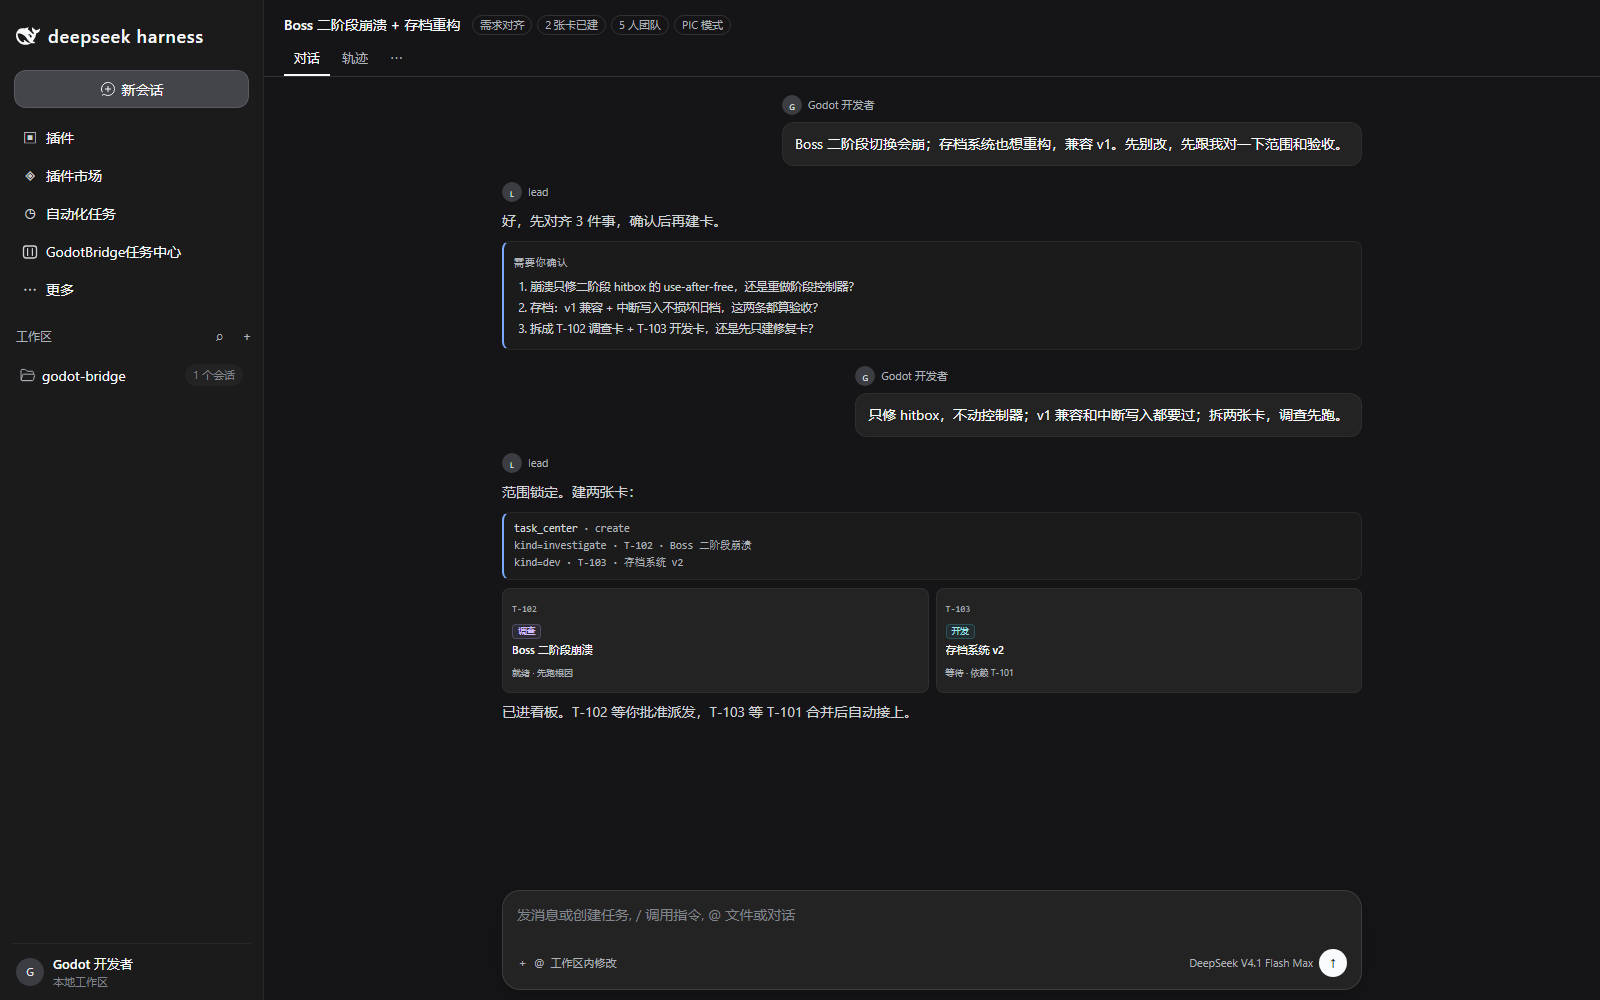
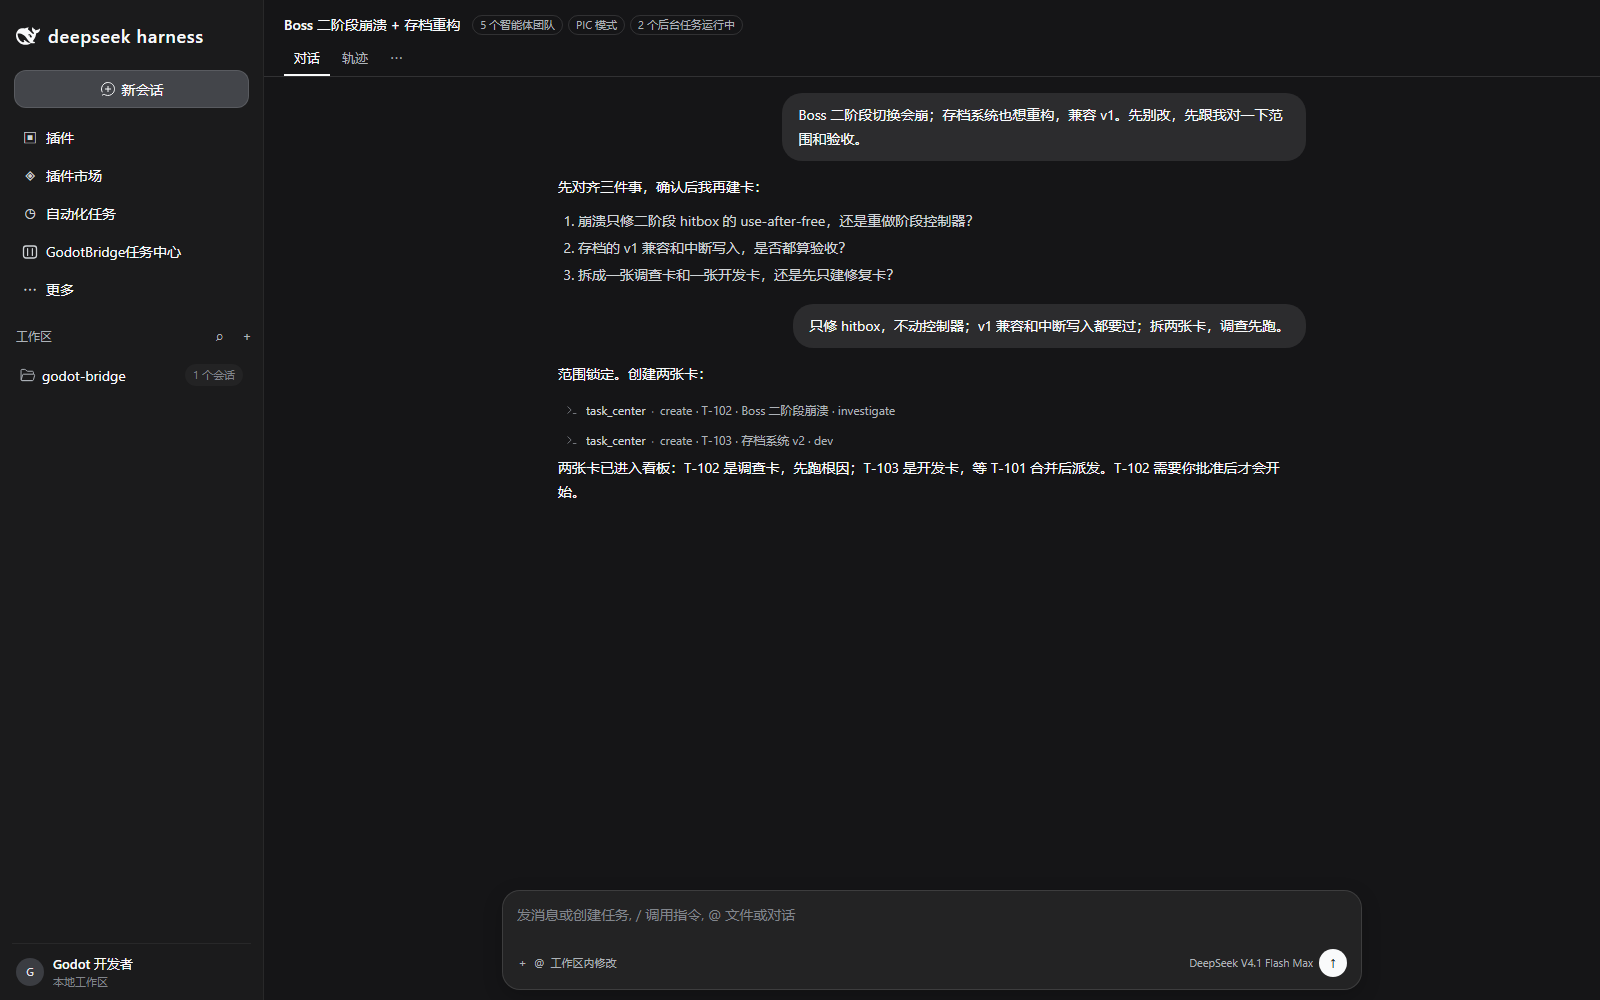
docs: render DSH chat without fake cards or bylines

diff --git a/site/preview/index.html b/site/preview/index.html
@@ -201,30 +201,22 @@ th{background:var(--sidebar);color:var(--tertiary);font-weight:500}td{color:var(
 .chatTab{height:34px;padding:0 10px;color:var(--tertiary);font-size:13px;border-bottom:2px solid transparent}
 .chatTab.active{color:var(--text);border-bottom-color:#f9fafb}
 .chatBody{flex:1;min-height:0;overflow:auto;padding:16px 28px 4px}
-.thread{max-width:860px;margin:0 auto;display:flex;flex-direction:column;gap:14px}
-.msg{font-size:14px;line-height:24px;color:var(--secondary)}
-.msg .who{display:flex;align-items:center;gap:6px;margin-bottom:5px;color:var(--tertiary);font-size:11px}
-.msg .who .avatar{width:20px;height:20px;font-size:8px}
-.msg.user{align-self:flex-end;max-width:78%}
-.msg.user .bubble{padding:9px 12px;background:var(--layer1);border:1px solid var(--border-soft);border-radius:12px;color:var(--text)}
-.msg.assistant .bubble{padding:0}
-.msg .bubble p{margin:0 0 8px}.msg .bubble p:last-child{margin:0}
+.thread{max-width:748px;margin:0 auto;display:flex;flex-direction:column;gap:14px}
+.msg{min-width:0;font-size:14px;line-height:24px;color:var(--text)}
+.msg.user{align-self:flex-end;max-width:min(70%,620px)}
+.msg.user .bubble{padding:10px 16px;background:var(--layer2);border-radius:20px;color:var(--text);white-space:pre-wrap}
+.msg.assistant{align-self:stretch}
+.msg.assistant .bubble{color:var(--text)}
+.msg .bubble p{margin:0 0 10px}.msg .bubble p:last-child{margin:0}
+.msg .bubble ol,.msg .bubble ul{margin:6px 0 0;padding-left:20px;color:var(--secondary)}
+.msg .bubble li{margin:3px 0}
 .msg code{font-family:var(--mono);font-size:12px;background:var(--layer1);border:1px solid var(--border-soft);border-radius:4px;padding:1px 4px;color:#9fe4e8}
-.tool{background:var(--sidebar);border:1px solid var(--border-soft);border-left:2px solid var(--blue);border-radius:8px;padding:8px 10px;margin:8px 0;font-family:var(--mono);font-size:10.5px;line-height:1.6;color:var(--tertiary)}
-.tool b{color:var(--secondary);font-weight:500}
-.align{margin:8px 0 0;padding:8px 10px;border:1px solid var(--border-soft);border-left:2px solid var(--blue);background:var(--sidebar);border-radius:8px}
-.align b{display:block;font-size:10px;letter-spacing:.08em;text-transform:uppercase;color:var(--tertiary);font-weight:500;margin-bottom:4px}
-.align ol{margin:0;padding-left:16px;color:var(--secondary);font-size:11.5px;line-height:1.65}
-.align li{margin:2px 0}
-.created{display:grid;grid-template-columns:1fr 1fr;gap:7px;margin:8px 0 7px}
-.created-card{display:flex;flex-direction:column;gap:3px;min-width:0;padding:8px 9px;background:var(--layer1);border:1px solid var(--border-soft);border-radius:8px}
-.created-card .cid{font-family:var(--mono);font-size:9px;color:var(--tertiary)}
-.created-card .ckind{align-self:flex-start;font-size:8.5px;line-height:1.5;padding:0 5px;border-radius:4px;border:1px solid var(--border-soft);color:var(--tertiary)}
-.created-card .ckind.inv{color:#d0bdff;border-color:rgba(183,166,255,.25);background:rgba(183,166,255,.07)}
-.created-card .ckind.dev{color:#9fe4e8;border-color:rgba(57,197,207,.25);background:rgba(57,197,207,.07)}
-.created-card b{font-size:11px;font-weight:500;line-height:1.4;color:var(--text);white-space:nowrap;overflow:hidden;text-overflow:ellipsis}
-.created-card .cmeta{font-size:9px;color:var(--tertiary)}
-
+.cmdrow{display:flex;align-items:center;gap:6px;min-height:28px;padding:2px 6px;margin:2px 0;border-radius:6px;color:var(--tertiary);font-size:12px}
+.cmdrow:hover{background:rgba(255,255,255,.04)}
+.cmdicon{width:16px;height:16px;flex:none;display:grid;place-items:center;color:var(--caption);font-size:11px}
+.cmdname{color:var(--secondary);white-space:nowrap}
+.cmdsep{color:var(--caption)}
+.cmdsum{min-width:0;overflow:hidden;text-overflow:ellipsis;white-space:nowrap;color:var(--tertiary)}
 .composerWrap{flex:none;padding:0 28px 10px;background:var(--bg)}
 .composer{max-width:860px;margin:0 auto;background:var(--layer1);border:0.5px solid var(--border);border-radius:var(--radius-panel);padding:12px 14px;min-height:100px;display:flex;flex-direction:column;box-shadow:0 6px 20px rgba(0,0,0,.2)}
 .composer .ph{color:var(--caption);font-size:14px;line-height:24px;flex:1}
@@ -460,12 +452,12 @@ Git
 
 <template id="tpl-dsh">
 <div class="chat">
-  <header class="chatHead"><div class="chatTitleRow"><div class="chatTitle">Boss 二阶段崩溃 + 存档重构</div><div class="chatBadges"><span class="badge">需求对齐</span><span class="badge">2 张卡已建</span><span class="badge">5 人团队</span><span class="badge">PIC 模式</span></div></div><div class="chatTabs"><button class="chatTab active">对话</button><button class="chatTab">轨迹</button><button class="chatTab">⋯</button></div></header>
+  <header class="chatHead"><div class="chatTitleRow"><div class="chatTitle">Boss 二阶段崩溃 + 存档重构</div><div class="chatBadges"><span class="badge">5 个智能体团队</span><span class="badge">PIC 模式</span><span class="badge">2 个后台任务运行中</span></div></div><div class="chatTabs"><button class="chatTab active">对话</button><button class="chatTab">轨迹</button><button class="chatTab">⋯</button></div></header>
   <div class="chatBody"><div class="thread">
-    <div class="msg user"><div class="who"><span class="avatar">G</span>Godot 开发者</div><div class="bubble"><p>Boss 二阶段切换会崩；存档系统也想重构，兼容 v1。先别改，先跟我对一下范围和验收。</p></div></div>
-    <div class="msg assistant"><div class="who"><span class="avatar">L</span>lead</div><div class="bubble"><p>好，先对齐 3 件事，确认后再建卡。</p><div class="align"><b>需要你确认</b><ol><li>崩溃只修二阶段 hitbox 的 use-after-free，还是重做阶段控制器？</li><li>存档：v1 兼容 + 中断写入不损坏旧档，这两条都算验收？</li><li>拆成 T-102 调查卡 + T-103 开发卡，还是先只建修复卡？</li></ol></div></div></div>
-    <div class="msg user"><div class="who"><span class="avatar">G</span>Godot 开发者</div><div class="bubble"><p>只修 hitbox，不动控制器；v1 兼容和中断写入都要过；拆两张卡，调查先跑。</p></div></div>
-    <div class="msg assistant"><div class="who"><span class="avatar">L</span>lead</div><div class="bubble"><p>范围锁定。建两张卡：</p><div class="tool"><b>task_center</b> · create<br>kind=investigate · T-102 · Boss 二阶段崩溃<br>kind=dev · T-103 · 存档系统 v2</div><div class="created"><div class="created-card"><span class="cid">T-102</span><span class="ckind inv">调查</span><b>Boss 二阶段崩溃</b><span class="cmeta">就绪 · 先跑根因</span></div><div class="created-card"><span class="cid">T-103</span><span class="ckind dev">开发</span><b>存档系统 v2</b><span class="cmeta">等待 · 依赖 T-101</span></div></div><p>已进看板。T-102 等你批准派发，T-103 等 T-101 合并后自动接上。</p></div></div>
+    <div class="msg user"><div class="bubble"><p>Boss 二阶段切换会崩；存档系统也想重构，兼容 v1。先别改，先跟我对一下范围和验收。</p></div></div>
+    <div class="msg assistant"><div class="bubble"><p>先对齐三件事，确认后我再建卡：</p><ol><li>崩溃只修二阶段 hitbox 的 use-after-free，还是重做阶段控制器？</li><li>存档的 v1 兼容和中断写入，是否都算验收？</li><li>拆成一张调查卡和一张开发卡，还是先只建修复卡？</li></ol></div></div>
+    <div class="msg user"><div class="bubble"><p>只修 hitbox，不动控制器；v1 兼容和中断写入都要过；拆两张卡，调查先跑。</p></div></div>
+    <div class="msg assistant"><div class="bubble"><p>范围锁定。创建两张卡：</p><div class="cmdrow"><span class="cmdicon"><svg width="14" height="14" viewBox="0 0 16 16" fill="none" aria-hidden="true"><path d="M3 4L7 8L3 12" stroke="currentColor"/><path d="M9 12H13" stroke="currentColor"/></svg></span><span class="cmdname">task_center</span><span class="cmdsep">·</span><span class="cmdsum">create · T-102 · Boss 二阶段崩溃 · investigate</span></div><div class="cmdrow"><span class="cmdicon"><svg width="14" height="14" viewBox="0 0 16 16" fill="none" aria-hidden="true"><path d="M3 4L7 8L3 12" stroke="currentColor"/><path d="M9 12H13" stroke="currentColor"/></svg></span><span class="cmdname">task_center</span><span class="cmdsep">·</span><span class="cmdsum">create · T-103 · 存档系统 v2 · dev</span></div><p>两张卡已进入看板：T-102 是调查卡，先跑根因；T-103 是开发卡，等 T-101 合并后派发。T-102 需要你批准后才会开始。</p></div></div>
   </div></div>
   <div class="composerWrap"><div class="composer"><div class="ph">发消息或创建任务, / 调用指令, @ 文件或对话</div><div class="row"><span>＋</span><span>@</span><span>工作区内修改</span><span class="grow"></span><span>DeepSeek V4.1 Flash Max</span><span class="send">↑</span></div></div></div>
 </div>
